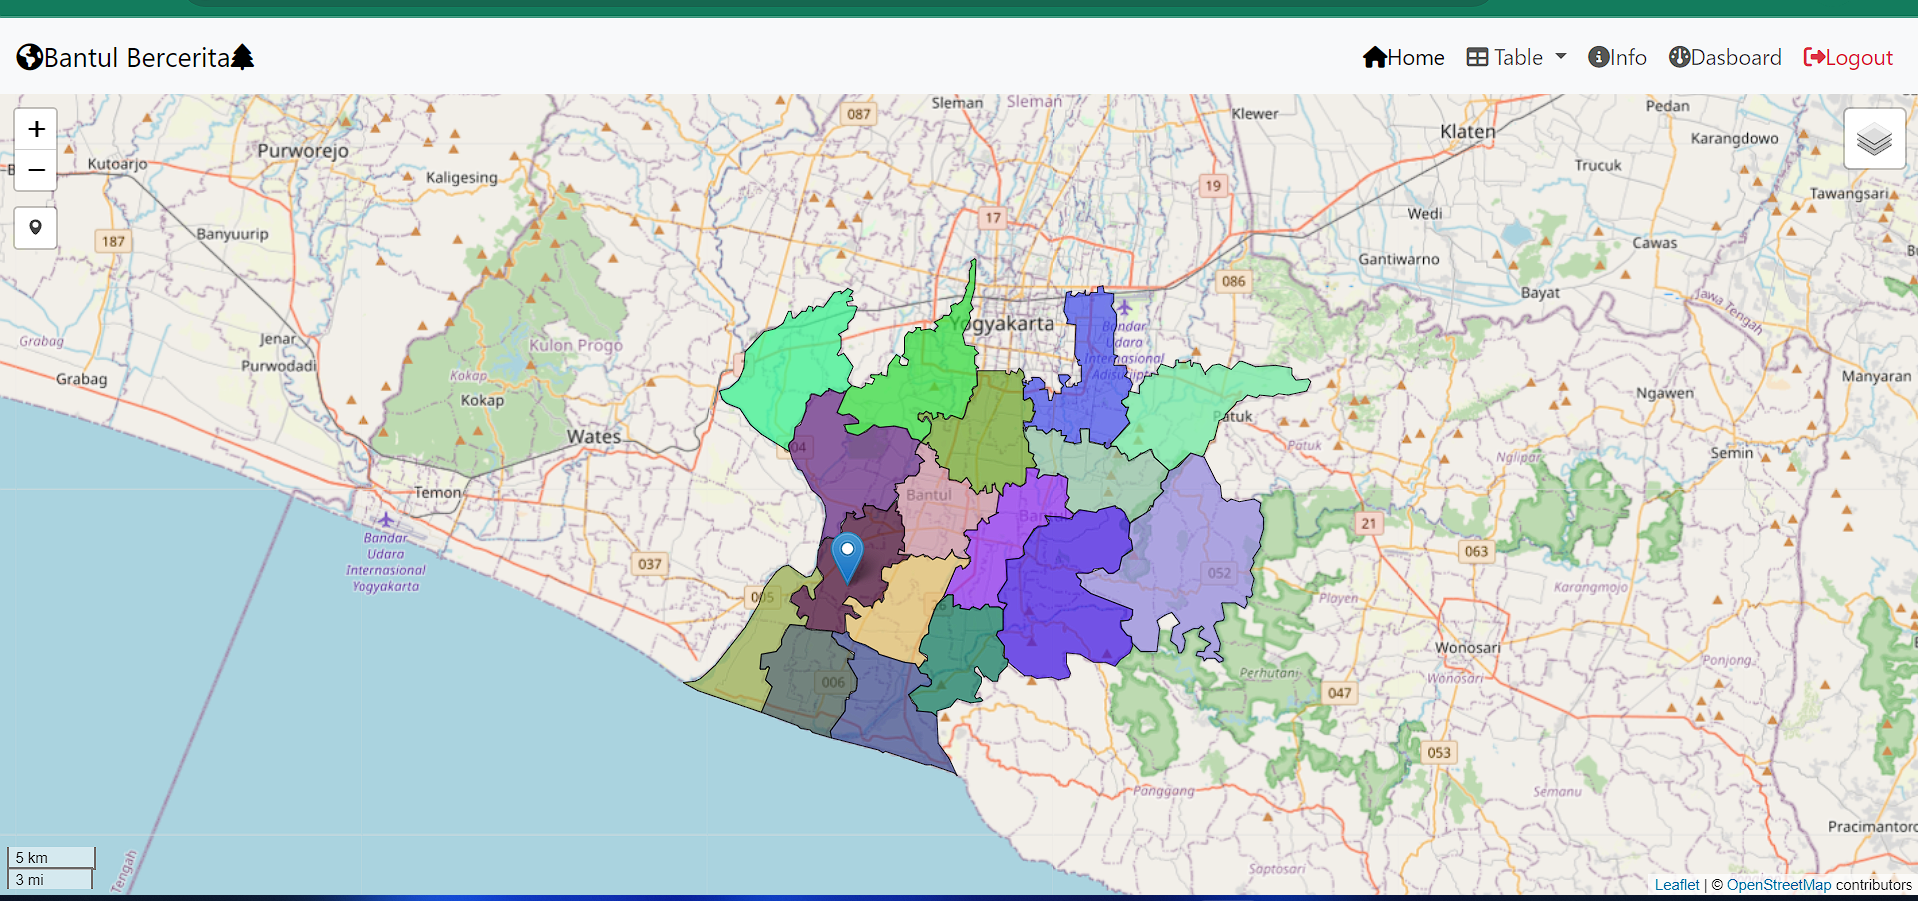
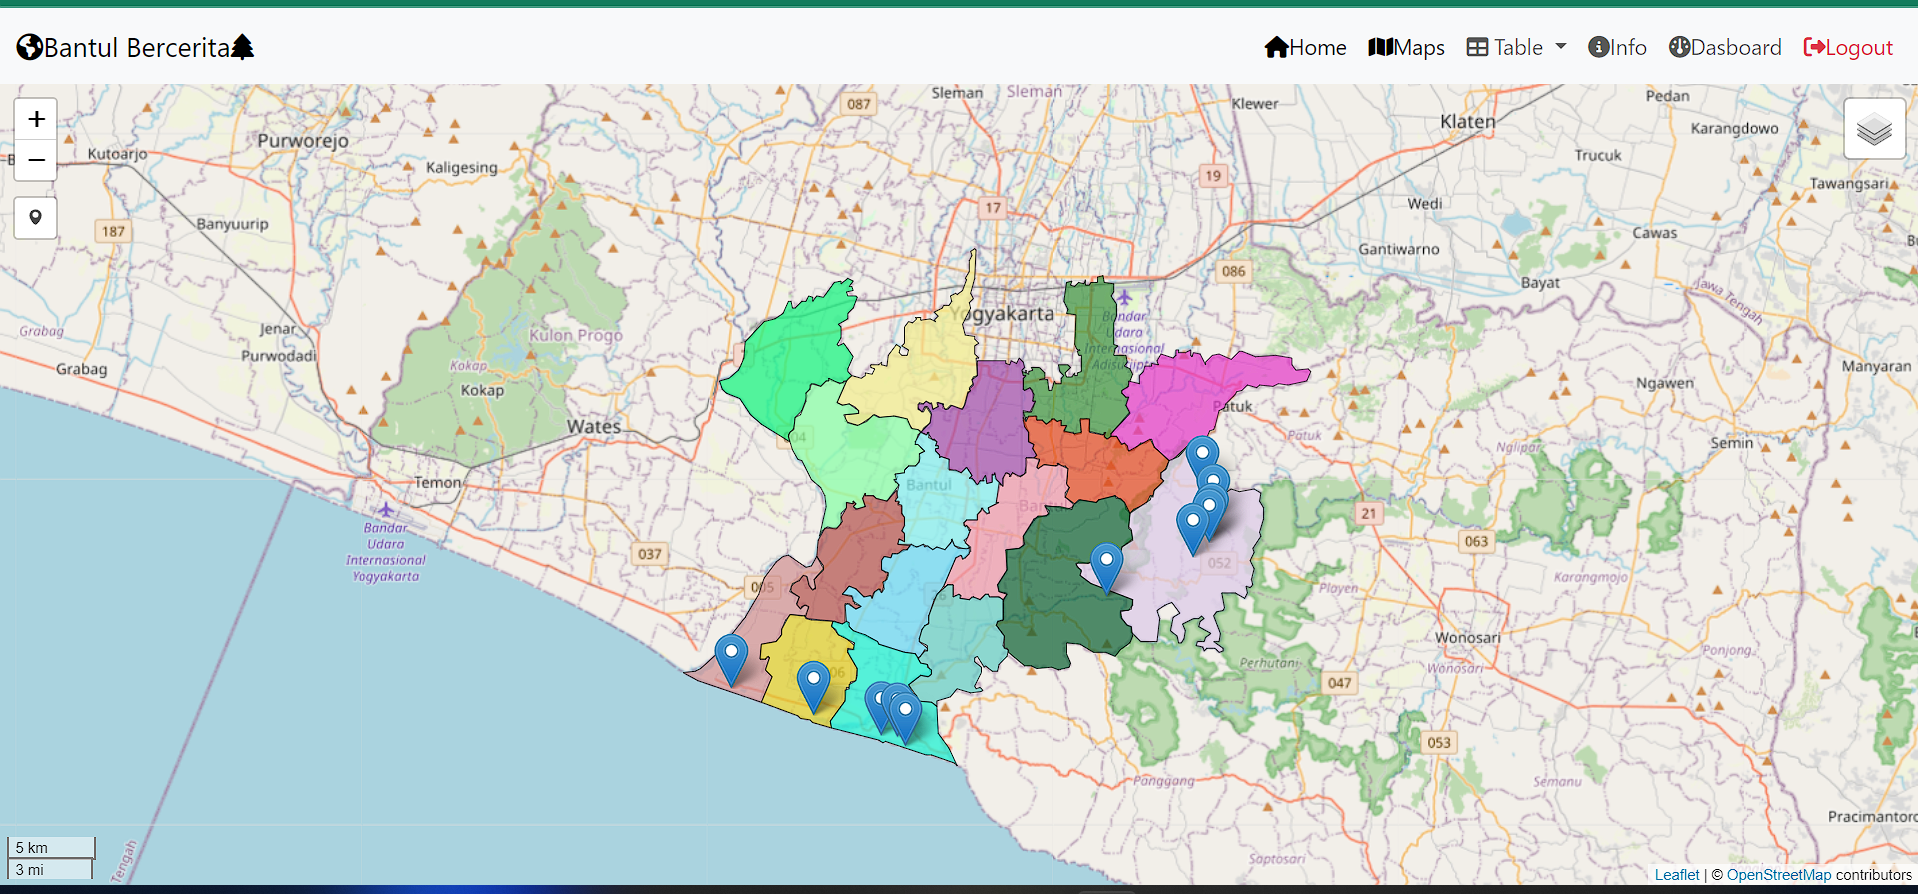
update

diff --git a/resources/views/layouts/template.blade.php b/resources/views/layouts/template.blade.php
@@ -33,6 +33,9 @@
                     <li class="nav-item">
                         <a class="nav-link active" aria-current="page" href="{{ route('landing') }}"><i class="fa-solid fa-house"></i>Home</a>
                     </li>
+                    <li class="nav-item">
+                        <a class="nav-link active" aria-current="page" href="{{ route('index') }}"><i class="fa-solid fa-map"></i>Maps</a>
+                    </li>
 
                     <li class="nav-item dropdown">
                         <a class="nav-link dropdown-toggle" href="#" role="button" data-bs-toggle="dropdown" aria-expanded="false">
@@ -40,7 +43,7 @@
                         </a>
                         <ul class="dropdown-menu">
                           <li><a class="dropdown-item" href="{{ route('table-points') }}"></i></i></i>Table Titik Wisata</a></li>
-                          
+
 
                         </ul>
                       </li>
